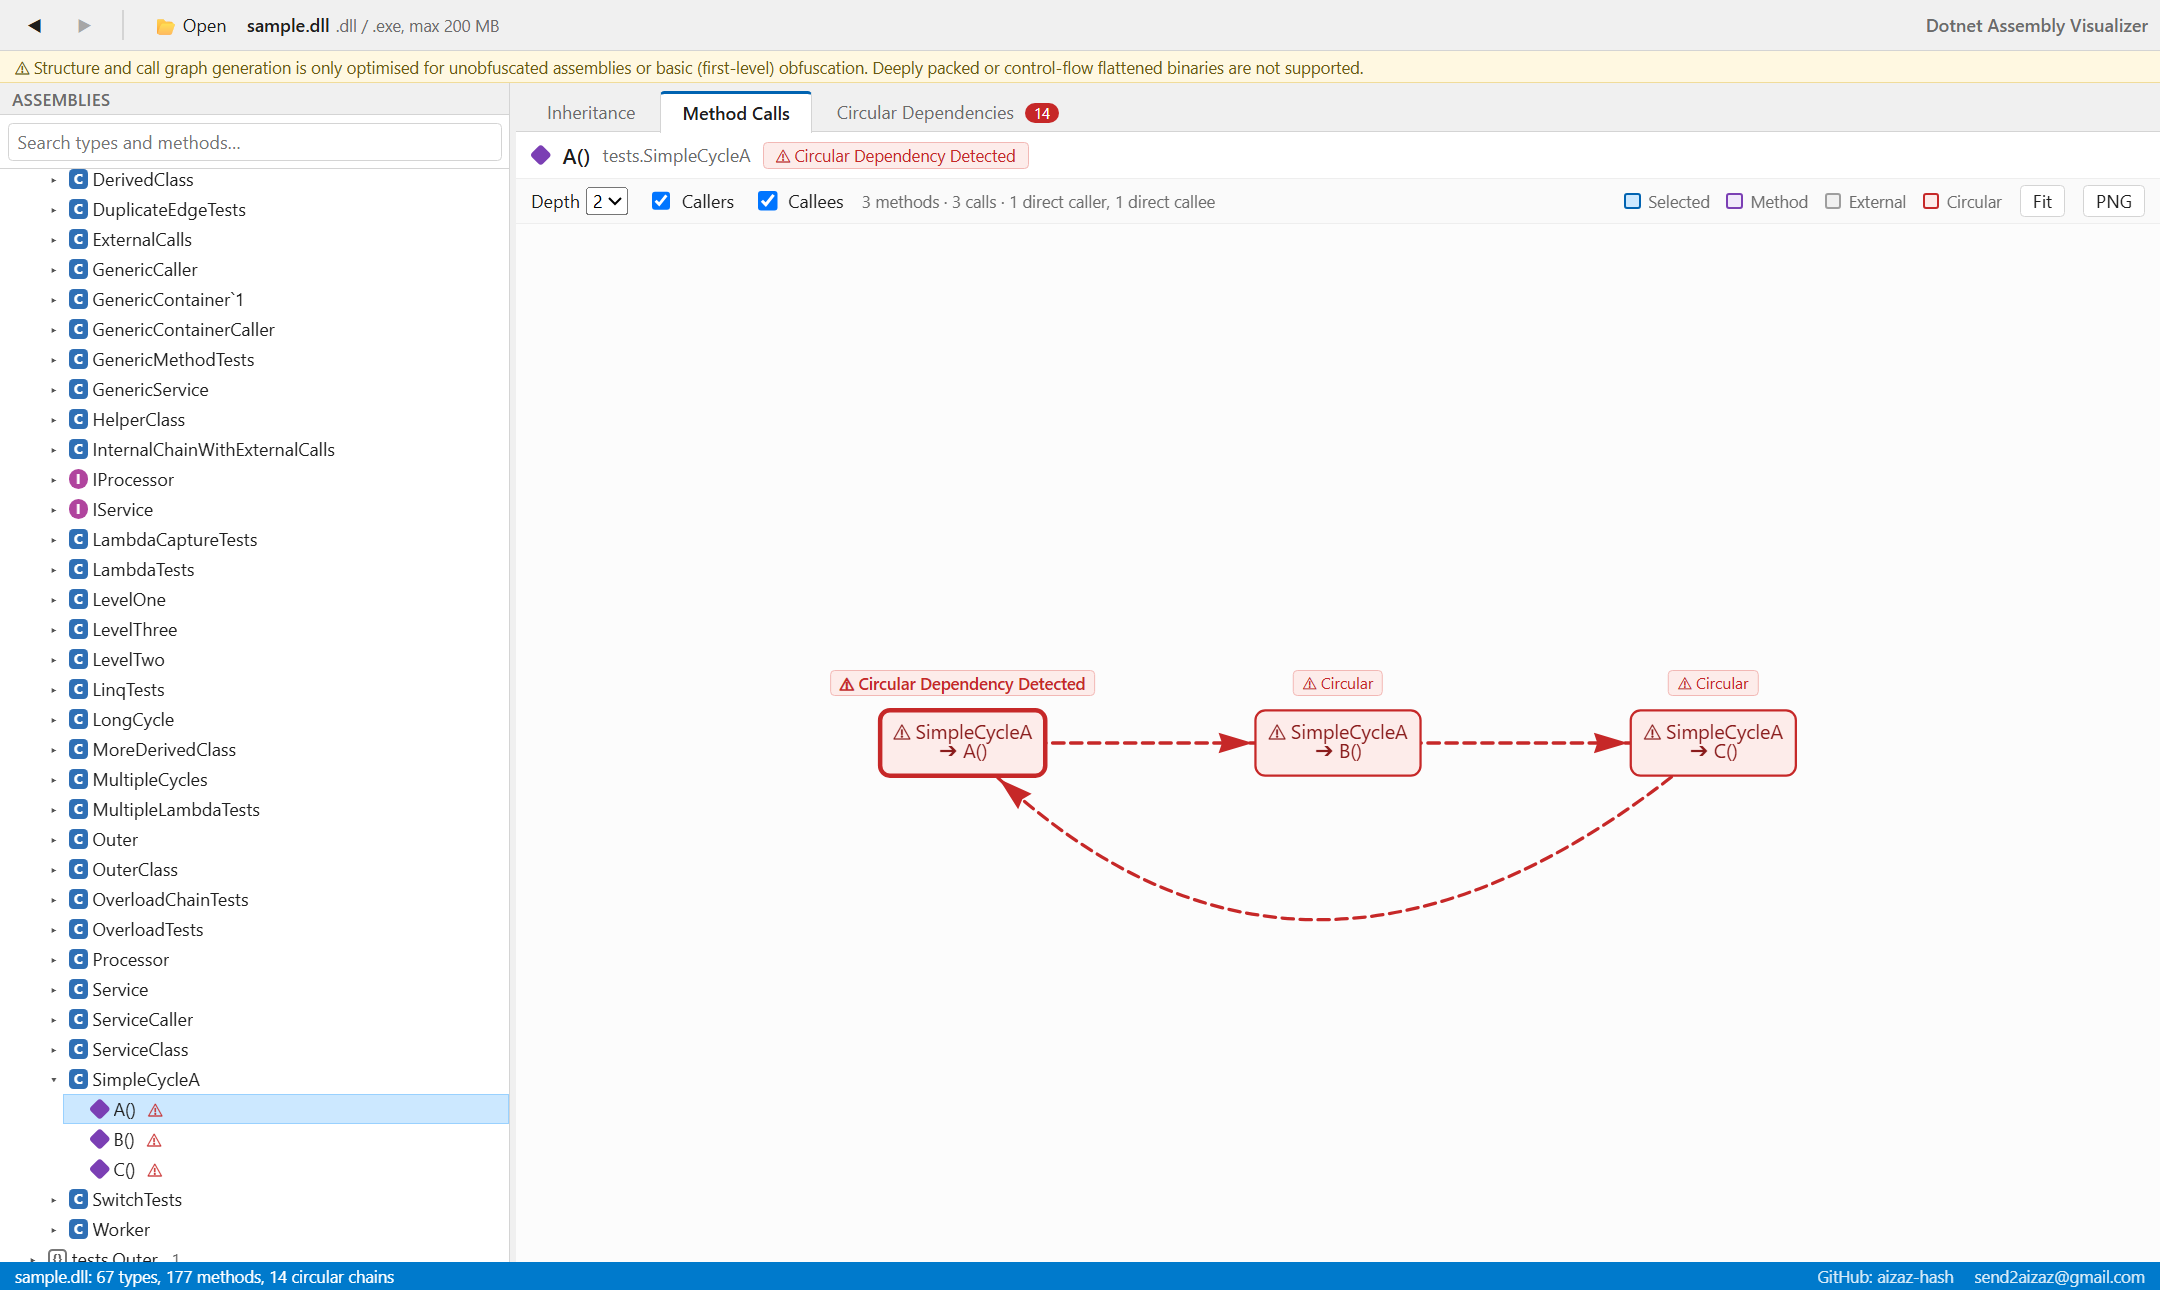
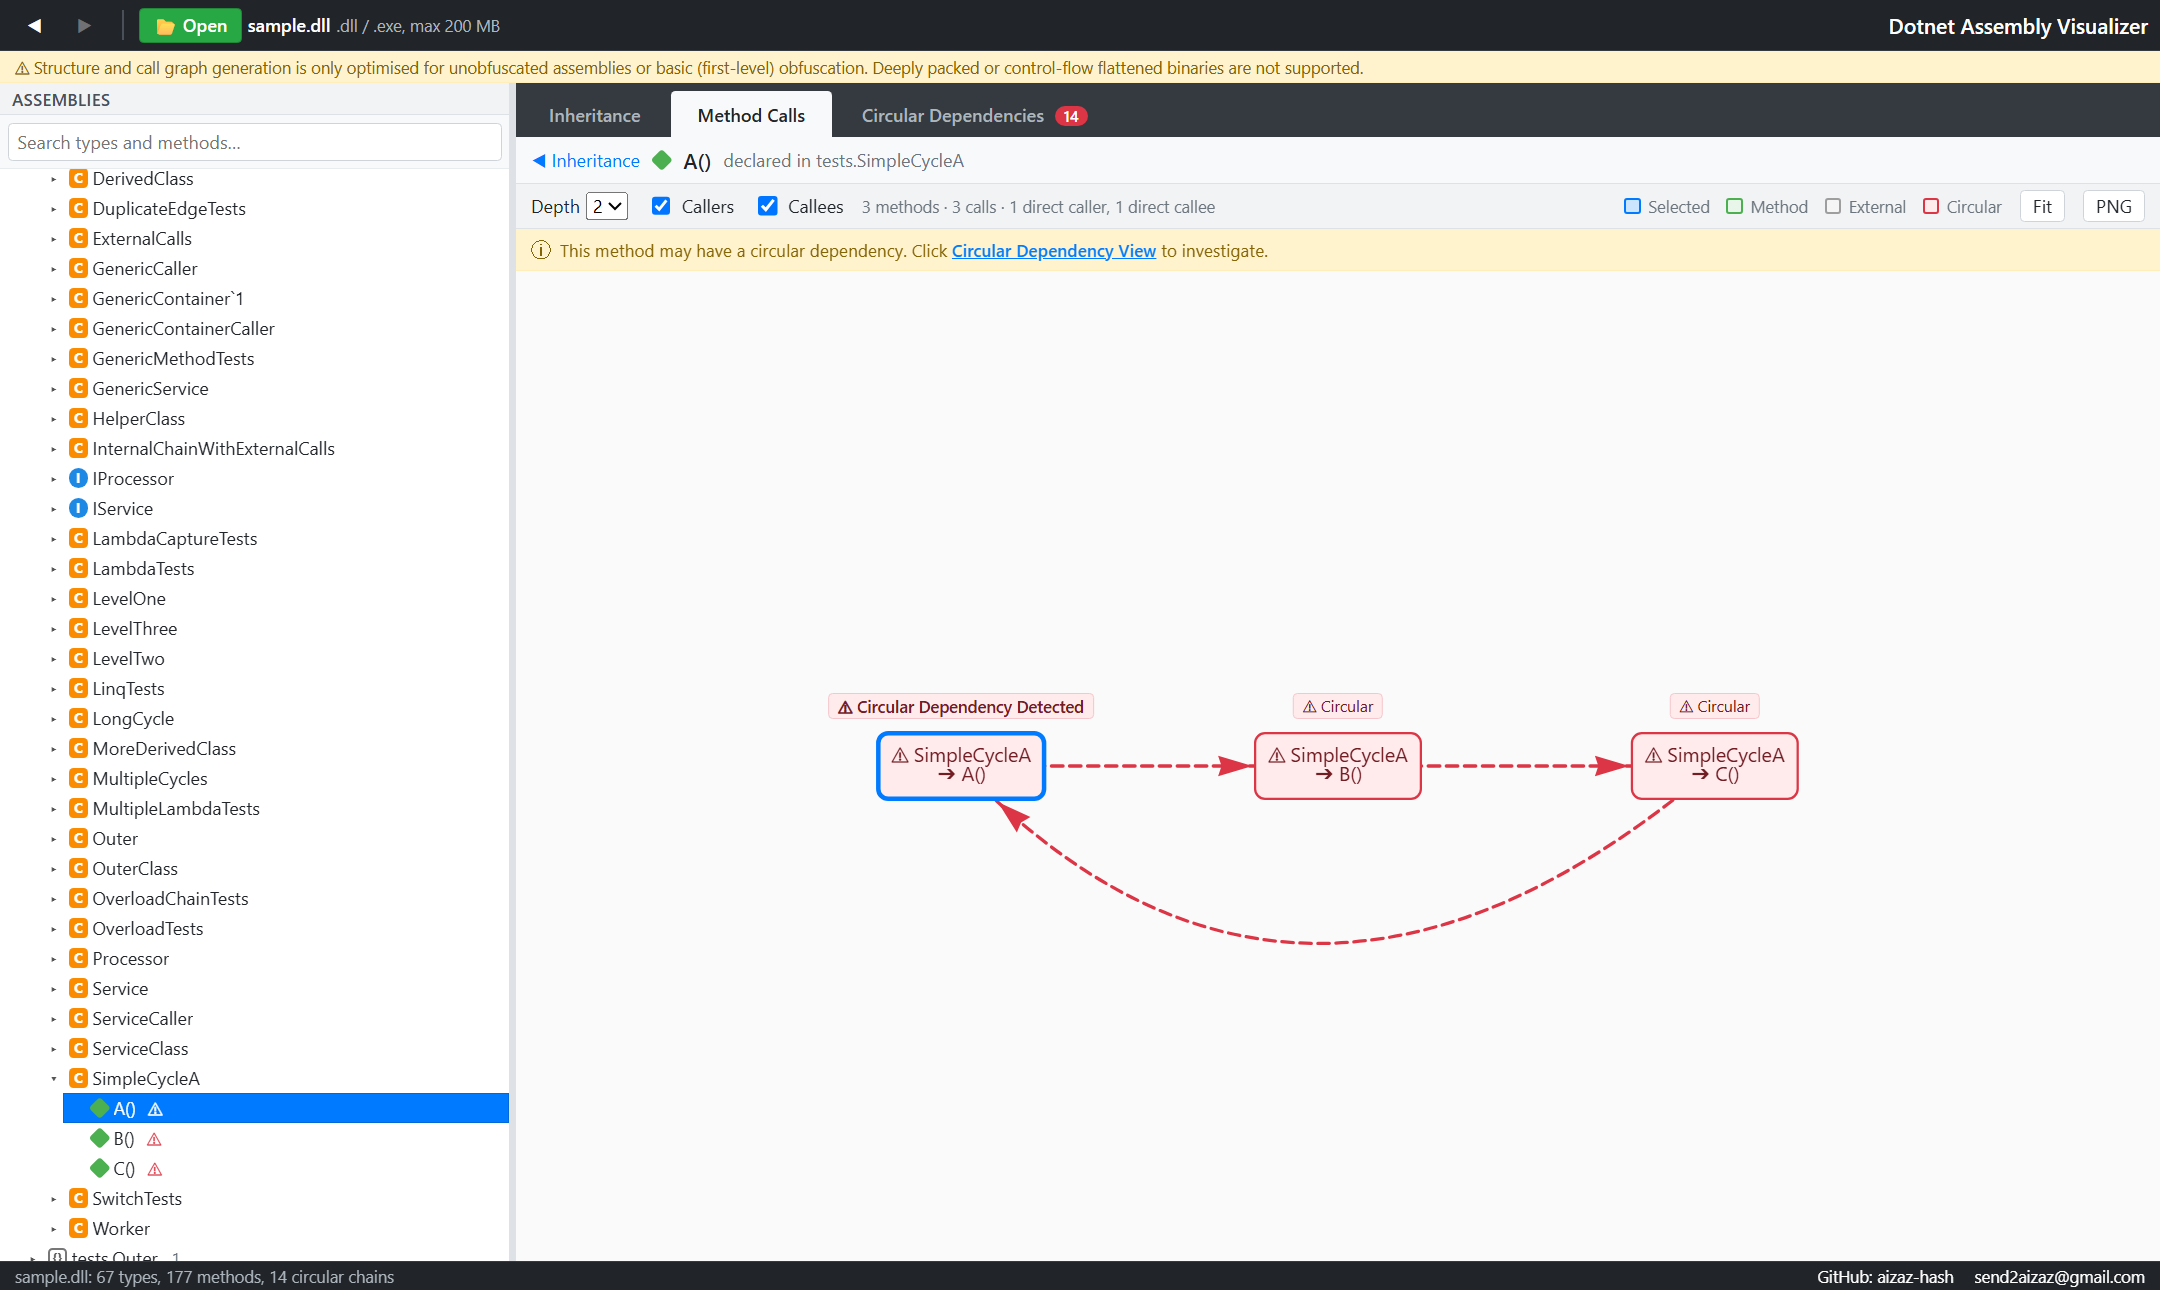
style(ui): use the main branch colour scheme
Dark #212529 header and status bar, #343a40 tab bar with a light active tab, green #28a745 primary button, #007bff selection, and the main branch graph colours (orange classes, blue interfaces, green methods, red circular dependencies). Layout stays ILSpy-style. Screenshots retaken.

diff --git a/wwwroot/css/styles.css b/wwwroot/css/styles.css
@@ -253,3 +253,121 @@ body.dragging #dropOverlay { display: flex; }
 }
 .method-note .mn-icon { font-size: 13px; margin-right: 6px; }
 .method-note .mn-link { color: var(--accent); font-weight: 600; }
+
+/* ==========================================================================
+   Colour scheme of the main branch (dark #212529 header, #343a40 tab bar,
+   green #28a745 primary button, #007bff selection, orange / blue / green /
+   red graph colours). Layout stays ILSpy-style; only colours are set here.
+   ========================================================================== */
+:root {
+    --bg: #f8f9fa;
+    --chrome: #f1f3f5;
+    --chrome-border: #dee2e6;
+    --text: #212529;
+    --muted: #6c757d;
+    --sel-bg: #007bff;
+    --sel-border: #0069d9;
+    --hover: #e9ecef;
+    --accent: #007bff;
+    --danger: #dc3545;
+    --danger-bg: #ffebeb;
+    --class: #fb8c00;
+    --iface: #1e88e5;
+    --method: #4caf50;
+    --asm: #adb5bd;
+}
+
+body { background: #f8f9fa; color: #212529; }
+
+/* header / toolbar */
+#toolbar { background: #212529; border-bottom: 1px solid #343a40; color: #fff; box-shadow: 0 2px 5px rgba(0,0,0,0.2); }
+#toolbar .tb-btn { color: #fff; }
+#toolbar .tb-btn:hover:not(:disabled) { background: #495057; border-color: #6c757d; }
+#toolbar .tb-sep { background: #495057; }
+.app-title { color: #fff; font-size: 14px; font-weight: 600; }
+.tb-open { background: #28a745; border-color: #218838 !important; font-weight: 500; }
+#toolbar .tb-open:hover:not(:disabled) { background: #218838; border-color: #1e7e34; }
+.dll-name-display { color: #fff; }
+.upload-hint { color: #adb5bd; }
+#assemblySwitcher { background: #495057; color: #fff; border: 1px solid #6c757d; }
+
+/* notices and messages */
+#obfuscationNotice { background: #fff3cd; color: #856404; border-bottom: 1px solid #ffeeba; }
+.msg-success { background: #d4edda; color: #155724; border-color: #c3e6cb !important; }
+.msg-error { background: #f8d7da; color: #721c24; border-color: #f5c6cb !important; }
+.msg-info { background: #e2e3e5; color: #383d41; border-color: #d6d8db !important; }
+
+/* explorer */
+.pane-title { background: #f1f3f5; color: #495057; border-bottom: 1px solid #dee2e6; }
+.explorer-search { background: #f8f9fa; border-bottom: 1px solid #e9ecef; }
+.explorer-search input { border: 1px solid #ced4da; }
+.explorer-search input:focus { outline: none; border-color: #007bff; box-shadow: 0 0 0 2px rgba(0,123,255,.2); }
+#splitter { background: #dee2e6; }
+.t-row:hover { background: #e9ecef; }
+.t-row.selected { background: #007bff; border-color: #0069d9; color: #fff; }
+.t-row.selected .t-sub { color: #cfe4ff; }
+.t-row.selected .t-arrow { color: #fff; }
+.t-row.selected .t-tag { background: rgba(255,255,255,.2); color: #fff; }
+.t-row.selected .t-badge-cycle { color: #fff; }
+.t-tag { background: #e2e3e5; color: #495057; }
+.t-badge-cycle { color: #dc3545; }
+.ico-asm { background: #6c757d; }
+.ico-class { background: #fb8c00; }
+.ico-iface { background: #1e88e5; }
+.ico-method { background: #4caf50; }
+.ico-folder { background: #adb5bd; }
+.folder-count { color: #6c757d; }
+
+/* tab bar */
+.tab-strip { background: #343a40; border-bottom: none; padding: 4px 4px 0 4px; }
+.tab { color: #adb5bd; border: none; padding: 8px 18px; font-weight: 500; }
+.tab:hover { background: #495057; color: #fff; }
+.tab.active { background: #f8f9fa; color: #212529; font-weight: 600; border: none; }
+.tab-badge { background: #6c757d; color: #fff; }
+.tab-badge.has { background: #dc3545; }
+
+/* view chrome */
+#mainPane, .view-title { background: #f8f9fa; }
+.view-title { border-bottom: 1px solid #dee2e6; }
+.view-toolbar { background: #f1f3f5; border-bottom: 1px solid #dee2e6; }
+.seg-btn.active { background: #343a40; color: #fff; }
+.tb-btn.small { background: #fff; border: 1px solid #ced4da; color: #212529; }
+.tb-btn.small:hover:not(:disabled) { background: #e9ecef; }
+.crumb { color: #007bff; }
+.canvas-wrap { background: #fafafa; }
+.canvas-message-btn { background: #28a745; border-color: #218838; }
+.canvas-message-btn:hover { background: #218838; filter: none; }
+.spinner-wheel { border: 5px solid #e9ecef; border-top-color: #007bff; }
+#canvasLoaderOverlay { color: #495057; }
+
+/* legend swatches = graph colours */
+.lg-class { background: #fff3e0; border-color: #fb8c00; }
+.lg-iface { background: #e3f2fd; border-color: #1e88e5; }
+.lg-norm { background: #e8f5e9; border-color: #4caf50; }
+.lg-ext { background: #f5f5f5; border-color: #9e9e9e; }
+.lg-cyc { background: #ffebeb; border-color: #dc3545; }
+.lg-sel { background: #cce5ff; border-color: #007bff; }
+
+/* circular dependency UI */
+.cyc-chip { background: #ffebeb; color: #721c24; border-color: #f5c6cb; }
+.cyc-chip:hover { background: #f8d7da; }
+.cycle-link { color: #721c24; background: #ffebeb; border-color: #f5c6cb; }
+.method-note { background: #fff3cd; color: #856404; border-bottom: 1px solid #ffeeba; }
+.method-note .mn-link { color: #007bff; }
+.cyc-group-head { background: #f1f3f5; color: #495057; border-bottom: 1px solid #dee2e6; }
+.cyc-item .ci-top { color: #dc3545; }
+.cyc-item:hover { background: #e9ecef; }
+.cyc-item.selected { background: #007bff; }
+.cyc-item.selected .ci-top, .cyc-item.selected .ci-path { color: #fff; }
+.filter-chip { background: #e2e3e5; border-color: #d6d8db; color: #383d41; }
+.chain-method { color: #007bff; border-bottom-color: #007bff; }
+.chain-method.start { color: #155724; border-bottom-color: #155724; }
+.chain-note.start { background: #d4edda; color: #155724; }
+.chain-note.loop { background: #ffebeb; color: #721c24; }
+
+/* status bar = main's footer */
+#statusBar { background: #212529; color: #adb5bd; border-top: 1px solid #343a40; }
+#statusBar a { color: #fff; opacity: 1; }
+
+/* drag & drop */
+#dropOverlay { background: rgba(0,123,255,.10); border-color: #007bff; color: #007bff; }

diff --git a/wwwroot/js/app.js b/wwwroot/js/app.js
@@ -548,10 +548,10 @@ function inhNodeStyle(id, selected) {
     const iface = !!t && t.type === 'Interface';
     const external = !t;
     let color = iface
-        ? { background: '#e3f2fd', border: '#42a5f5', highlight: { background: '#cfe8fc', border: '#1e88e5' } }
-        : { background: '#fff3e0', border: '#e0a030', highlight: { background: '#ffe8c2', border: '#c07f10' } };
-    if (external) color = { background: '#f0f0f0', border: '#9e9e9e', highlight: { background: '#e4e4e4', border: '#757575' } };
-    if (selected) color = { background: iface ? '#cfe8fc' : '#cce8ff', border: '#0063b1', highlight: { background: '#b9ddfb', border: '#004a85' } };
+        ? { background: '#e3f2fd', border: '#1e88e5', highlight: { background: '#cfe8fc', border: '#1565c0' } }
+        : { background: '#fff3e0', border: '#fb8c00', highlight: { background: '#ffe0b2', border: '#e65100' } };
+    if (external) color = { background: '#f5f5f5', border: '#9e9e9e', highlight: { background: '#e4e4e4', border: '#757575' } };
+    if (selected) color = { background: iface ? '#e3f2fd' : '#fff3e0', border: '#007bff', highlight: { background: iface ? '#cfe8fc' : '#ffe0b2', border: '#0056b3' } };
     return {
         id, label: t ? t.name : shortName(id), shape: iface ? 'ellipse' : 'box', margin: 10,
         borderWidth: selected ? 3 : 1.5, color,
@@ -741,14 +741,14 @@ function nodeStyle(id, selected) {
     const info = methodInfo(id);
     const cyclic = cyclesOfMethod.has(id);
     const label = `${cyclic ? '⚠ ' : ''}${shortName(info.className)}\n➔ ${truncate(info.name, 40)}`;
-    let color = { background: '#f1e9fb', border: '#7b3fb4', highlight: { background: '#e5d6f6', border: '#5a2d8a' } };
-    if (info.external) color = { background: '#f0f0f0', border: '#9e9e9e', highlight: { background: '#e4e4e4', border: '#757575' } };
-    if (cyclic) color = { background: '#fdecea', border: '#c62828', highlight: { background: '#fbd7d3', border: '#8e1c1c' } };
-    if (selected) color = { background: cyclic ? '#fdecea' : '#cce8ff', border: cyclic ? '#c62828' : '#0063b1', highlight: { background: '#b9ddfb', border: '#004a85' } };
+    let color = { background: '#e8f5e9', border: '#4caf50', highlight: { background: '#c8e6c9', border: '#2e7d32' } };
+    if (info.external) color = { background: '#f5f5f5', border: '#9e9e9e', highlight: { background: '#e4e4e4', border: '#757575' } };
+    if (cyclic) color = { background: '#ffebeb', border: '#dc3545', highlight: { background: '#f8d7da', border: '#bd2130' } };
+    if (selected) color = { background: cyclic ? '#ffebeb' : (info.external ? '#f5f5f5' : '#e8f5e9'), border: '#007bff', highlight: { background: cyclic ? '#f8d7da' : '#c8e6c9', border: '#0056b3' } };
     return {
         id, label, shape: 'box', margin: 8,
         borderWidth: selected ? 3 : 1.5,
-        color, font: { face: 'Segoe UI, sans-serif', size: 12, multi: false, color: cyclic ? '#8a1c1c' : '#1e1e1e' },
+        color, font: { face: 'Segoe UI, sans-serif', size: 12, multi: false, color: cyclic ? '#721c24' : '#212529' },
         title: `${info.className}.${info.name}${cyclic ? '\n⚠ part of a circular call chain' : ''}${info.external ? '\n(external / not in this assembly)' : ''}`
     };
 }
@@ -790,7 +790,7 @@ function buildCallGraph(center, depth, wantCallers, wantCallees) {
             edges.push({
                 from: id, to: c, arrows: 'to',
                 label: count > 1 ? `×${count}` : undefined,
-                color: cyc ? { color: '#c62828', highlight: '#8e1c1c' } : { color: '#8a8a8a', highlight: '#444' },
+                color: cyc ? { color: '#dc3545', highlight: '#bd2130' } : { color: '#8a8a8a', highlight: '#444' },
                 dashes: cyc ? [7, 4] : false,
                 width: cyc ? 2 : 1,
                 font: { size: 10, color: '#555', strokeWidth: 3, strokeColor: '#fcfcfc' },
@@ -1023,8 +1023,8 @@ function renderCycleDetail(body, chain, canvas) {
         st.x = Math.cos(angle) * radius * 1.5; st.y = Math.sin(angle) * radius;
         st.fixed = true;
         st.color = i === 0
-            ? { background: '#e3f4e6', border: '#1b6e2d', highlight: { background: '#cdebd3', border: '#1b6e2d' } }
-            : { background: '#fdecea', border: '#c62828', highlight: { background: '#fbd7d3', border: '#8e1c1c' } };
+            ? { background: '#d4edda', border: '#28a745', highlight: { background: '#c3e6cb', border: '#1e7e34' } }
+            : { background: '#ffebeb', border: '#dc3545', highlight: { background: '#f8d7da', border: '#bd2130' } };
         st.borderWidth = i === 0 ? 3 : 2;
         st.label = (i === 0 ? '▶ start\n' : '') + `${shortName(methodInfo(id).className)}\n➔ ${truncate(methodInfo(id).name, 36)}`;
         return st;
@@ -1035,9 +1035,9 @@ function renderCycleDetail(body, chain, canvas) {
         return {
             from: id, to, arrows: 'to', width: 2.5,
             label: closing ? `${i + 1} ↺` : String(i + 1),
-            color: { color: '#c62828', highlight: '#8e1c1c' },
+            color: { color: '#dc3545', highlight: '#bd2130' },
             dashes: closing ? [7, 4] : false,
-            font: { size: 11, color: '#8e1c1c', strokeWidth: 3, strokeColor: '#fcfcfc' },
+            font: { size: 11, color: '#721c24', strokeWidth: 3, strokeColor: '#fafafa' },
             smooth: n === 1 ? { type: 'curvedCW', roundness: 0.6 } : { type: 'curvedCW', roundness: 0.18 }
         };
     });
